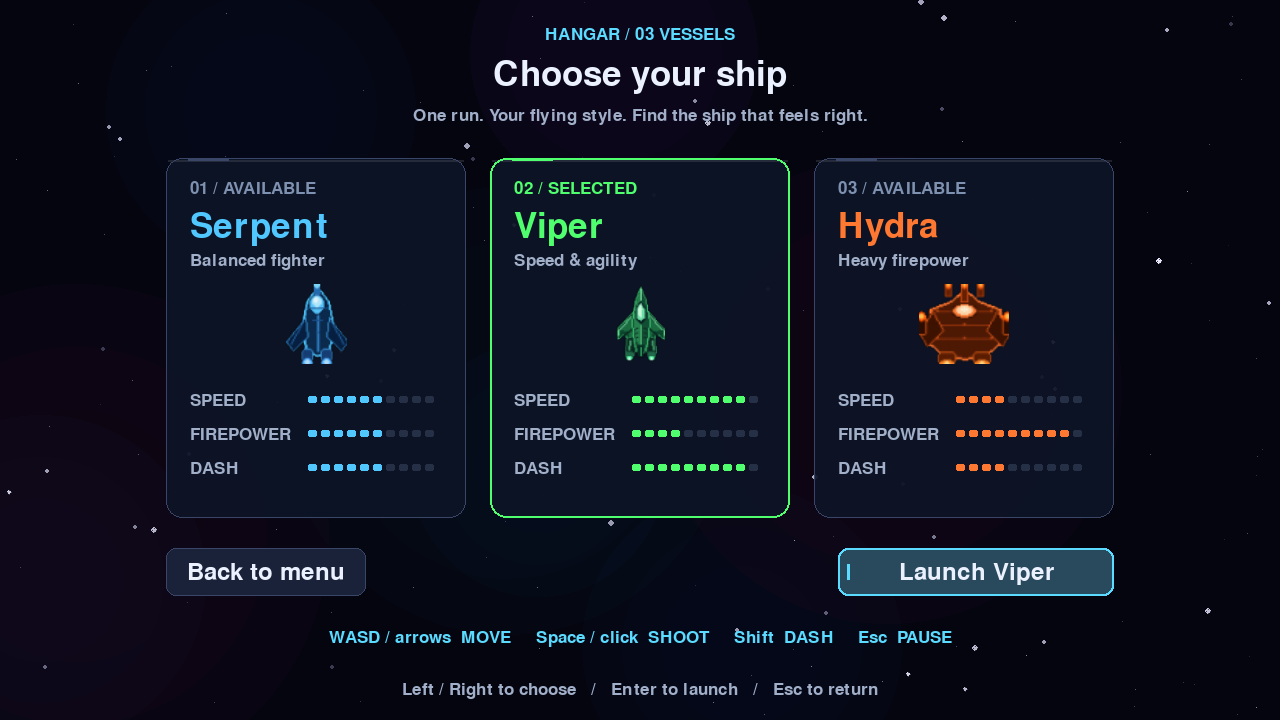
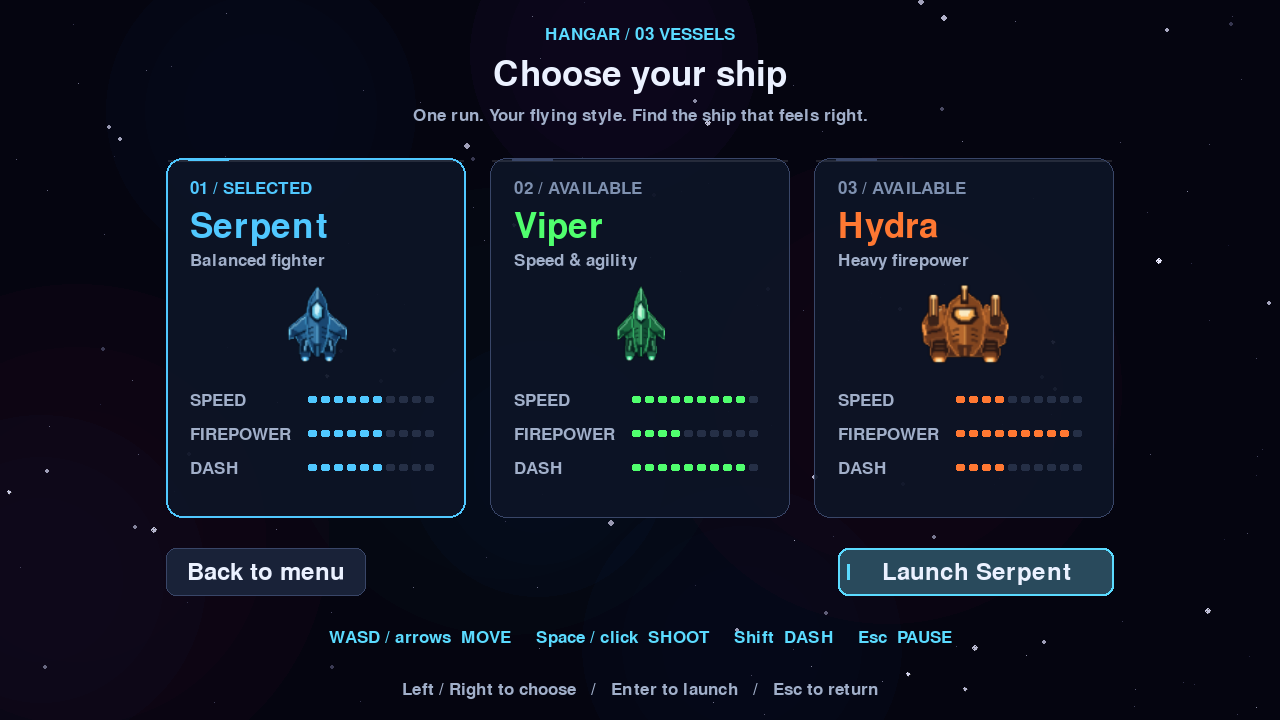
serpentis_1.8.1: refresh Serpent and Hydra and credit Curunir

diff --git a/ship_sprites.py b/ship_sprites.py
@@ -1,8 +1,8 @@
 """Procedural ship sprite builder — high-detail versions.
 
-  serpent — balanced fighter    (blue,  symmetric, twin engines, central cannon)
+  serpent — balanced fighter    (cobalt interceptor, swept wings, twin engines)
   viper   — speed & agility     (emerald interceptor, swept wings, twin thrusters)
-  hydra   — heavy firepower     (orange, wide armoured hull, triple cannon array)
+  hydra   — heavy firepower     (amber gunship, layered armour, weapon pods)
 
 All sprites face UP (nose at top).
 """
@@ -13,66 +13,60 @@ import pygame
 # Serpent — balanced blue fighter  (52×68)
 # ---------------------------------------------------------------------------
 def _build_serpent() -> pygame.Surface:
+    # Original canvas and gameplay footprint; only the drawn hull changes.
     W, H = 52, 68
     surf = pygame.Surface((W, H), pygame.SRCALPHA)
     cx = W // 2
+    edge, light, seam = (76, 173, 227), (168, 232, 255), (10, 31, 54)
 
-    # ── Main fuselage ────────────────────────────────────────────────
-    body = [
-        (cx,      2),           # nose tip
-        (cx + 9,  14),
-        (cx + 13, 34),
-        (cx + 10, 54),
-        (cx,      60),
-        (cx - 10, 54),
-        (cx - 13, 34),
-        (cx - 9,  14),
-    ]
-    pygame.draw.polygon(surf, (14, 45, 80), body)
-    pygame.draw.polygon(surf, (80, 200, 255), body, 2)
-
-    # Fuselage centre ridge
-    pygame.draw.line(surf, (50, 130, 200), (cx, 4), (cx, 56), 2)
-
-    # ── Swept wings ───────────────────────────────────────────────────
+    # Broad swept wings and pale leading edges define the balanced fighter.
     for sign in (-1, 1):
-        wing = [
-            (cx + sign * 10, 28),
-            (cx + sign * 26, 48),
-            (cx + sign * 20, 56),
-            (cx + sign * 8,  44),
-        ]
-        pygame.draw.polygon(surf, (10, 35, 68), wing)
-        pygame.draw.polygon(surf, (60, 160, 230), wing, 1)
-        # Wing trailing edge detail
-        pygame.draw.line(surf, (40, 110, 180),
-                         (cx + sign * 12, 32), (cx + sign * 22, 50), 1)
+        def point(x, y):
+            return cx + sign * x, y
 
-    # ── Cockpit ───────────────────────────────────────────────────────
-    pygame.draw.ellipse(surf, (0, 25, 60),      (cx - 7, 8,  14, 18))
-    pygame.draw.ellipse(surf, (90, 200, 255),   (cx - 6, 9,  12, 16))
-    pygame.draw.ellipse(surf, (180, 235, 255),  (cx - 4, 10,  8, 10))
-    # Cockpit highlight
-    pygame.draw.ellipse(surf, (230, 248, 255),  (cx - 3, 11,  4,  5))
+        wing = [point(7, 22), point(24, 36), point(24, 46),
+                point(18, 44), point(12, 56), point(6, 48)]
+        pygame.draw.polygon(surf, (24, 61, 100), wing)
+        pygame.draw.polygon(surf, edge, wing, 1)
+        pygame.draw.polygon(surf, (43, 104, 151),
+                            [point(8, 25), point(21, 37), point(15, 40), point(9, 47)])
+        pygame.draw.line(surf, light, point(9, 26), point(22, 37), 1)
+        pygame.draw.line(surf, seam, point(10, 38), point(19, 43), 2)
+        pygame.draw.line(surf, (120, 219, 255), point(24, 38), point(24, 42), 2)
 
-    # ── Nose cannon ───────────────────────────────────────────────────
-    pygame.draw.rect(surf, (40, 110, 180), (cx - 3, 0, 6, 10), border_radius=2)
-    pygame.draw.circle(surf, (130, 220, 255), (cx, 1), 3)
+        # Armoured engine shoulders flank the narrow tail.
+        pod = [point(7, 43), point(14, 46), point(15, 57),
+               point(12, 63), point(7, 63), point(5, 55)]
+        pygame.draw.polygon(surf, seam, pod)
+        pygame.draw.polygon(surf, (54, 113, 158), pod, 1)
+        pygame.draw.line(surf, (101, 172, 214), point(10, 47), point(11, 55), 2)
+        ex = cx + sign * 10
+        pygame.draw.rect(surf, (27, 68, 108), (ex - 4, 57, 8, 7), border_radius=2)
+        pygame.draw.rect(surf, (84, 195, 255), (ex - 3, 61, 6, 4), border_radius=2)
+        pygame.draw.rect(surf, (207, 246, 255), (ex - 1, 62, 2, 3))
 
-    # ── Armour plates on fuselage ─────────────────────────────────────
-    for py in (20, 30, 40):
-        pygame.draw.line(surf, (30, 85, 145),
-                         (cx - 9 + (py - 20) // 2, py),
-                         (cx + 9 - (py - 20) // 2, py), 1)
+    body = [(cx, 2), (cx + 7, 13), (cx + 10, 29), (cx + 8, 46),
+            (cx + 4, 57), (cx - 4, 57), (cx - 8, 46), (cx - 10, 29), (cx - 7, 13)]
+    pygame.draw.polygon(surf, (29, 74, 116), body)
+    pygame.draw.polygon(surf, edge, body, 1)
+    pygame.draw.polygon(surf, (58, 122, 168),
+                        [(cx, 5), (cx, 51), (cx - 5, 46), (cx - 7, 28), (cx - 4, 14)])
+    pygame.draw.line(surf, light, (cx, 4), (cx, 12), 1)
+    pygame.draw.line(surf, (113, 197, 238), (cx, 35), (cx, 51), 1)
 
-    # ── Twin engine nozzles ───────────────────────────────────────────
-    for ex in (cx - 8, cx + 8):
-        pygame.draw.rect(surf, (25, 65, 120), (ex - 5, 54, 10, 12), border_radius=3)
-        pygame.draw.rect(surf, (60, 150, 220), (ex - 5, 54, 10, 12), 1, border_radius=3)
-        # Engine glow ring
-        pygame.draw.ellipse(surf, (70, 170, 255), (ex - 5, 62, 10, 8))
-        pygame.draw.ellipse(surf, (180, 225, 255),(ex - 3, 63,  6, 5))
-
+    # A hexagonal canopy replaces the old flat glowing oval.
+    canopy = [(cx, 13), (cx + 6, 20), (cx + 5, 28),
+              (cx, 32), (cx - 5, 28), (cx - 6, 20)]
+    pygame.draw.polygon(surf, seam, canopy)
+    pygame.draw.polygon(surf, (94, 191, 227),
+                        [(cx, 15), (cx + 4, 20), (cx + 3, 27), (cx, 29), (cx - 3, 27), (cx - 4, 20)])
+    pygame.draw.polygon(surf, (207, 247, 255),
+                        [(cx, 16), (cx + 2, 20), (cx, 26), (cx - 2, 23), (cx - 2, 20)])
+    for sign in (-1, 1):
+        for y in (36, 40, 44):
+            pygame.draw.line(surf, seam, (cx + sign * 4, y), (cx + sign * 7, y + 1), 1)
+    pygame.draw.polygon(surf, (16, 44, 73), [(cx - 3, 50), (cx + 3, 50), (cx + 2, 60), (cx - 2, 60)])
+    pygame.draw.line(surf, edge, (cx, 52), (cx, 60), 1)
     return surf
 
 
@@ -150,71 +144,73 @@ def _build_hydra() -> pygame.Surface:
     W, H = 68, 60
     surf = pygame.Surface((W, H), pygame.SRCALPHA)
     cx = W // 2
+    edge, light, seam = (221, 128, 57), (255, 217, 151), (49, 28, 23)
 
-    # ── Wide armoured hull ────────────────────────────────────────────
-    hull = [
-        (cx,      3),           # nose
-        (cx + 10, 12),
-        (cx + 26, 18),
-        (cx + 28, 42),
-        (cx + 16, 52),
-        (cx,      55),
-        (cx - 16, 52),
-        (cx - 28, 42),
-        (cx - 26, 18),
-        (cx - 10, 12),
-    ]
-    pygame.draw.polygon(surf, (82, 28, 6), hull)
-    pygame.draw.polygon(surf, (255, 120, 50), hull, 2)
-
-    # Armour plating bands
-    for py, w in ((20, 40), (30, 46), (40, 40)):
-        pygame.draw.line(surf, (150, 55, 15),
-                         (cx - w // 2, py), (cx + w // 2, py), 1)
-        # Rivet dots
-        for rx in (-w // 2, 0, w // 2):
-            pygame.draw.circle(surf, (180, 70, 20), (cx + rx, py), 1)
-
-    # ── Short stubby wings with weapon pods ───────────────────────────
+    # A wide chassis connects two substantial weapon and engine outriggers.
+    chassis = [(cx - 14, 18), (cx + 14, 18), (cx + 30, 29),
+               (cx + 28, 44), (cx + 16, 53), (cx - 16, 53), (cx - 28, 44), (cx - 30, 29)]
+    pygame.draw.polygon(surf, (78, 44, 30), chassis)
+    pygame.draw.polygon(surf, (149, 86, 43), chassis, 1)
     for sign in (-1, 1):
-        wing = [
-            (cx + sign * 24, 20),
-            (cx + sign * 34, 36),
-            (cx + sign * 28, 46),
-            (cx + sign * 16, 34),
-        ]
-        pygame.draw.polygon(surf, (65, 20, 4), wing)
-        pygame.draw.polygon(surf, (215, 88, 28), wing, 1)
-        # Wing cannon pod
-        pod_x = cx + sign * 32
-        pod_y = 30
-        pygame.draw.rect(surf, (48, 14, 3),
-                         (pod_x - 4, pod_y - 6, 8, 14), border_radius=2)
-        pygame.draw.rect(surf, (200, 80, 20),
-                         (pod_x - 4, pod_y - 6, 8, 14), 1, border_radius=2)
-        pygame.draw.circle(surf, (255, 85, 5), (pod_x, pod_y - 6), 4)
-        pygame.draw.circle(surf, (255, 195, 80),(pod_x, pod_y - 6), 2)
+        def point(x, y):
+            return cx + sign * x, y
 
-    # ── Wide cockpit (battle visor) ───────────────────────────────────
-    pygame.draw.ellipse(surf, (55, 16, 3),      (cx - 10, 14, 20, 12))
-    pygame.draw.ellipse(surf, (255, 125, 55),   (cx - 9,  15, 18, 10))
-    pygame.draw.ellipse(surf, (255, 215, 170),  (cx - 6,  16, 12,  7))
-    pygame.draw.ellipse(surf, (255, 240, 210),  (cx - 3,  17,  6,  4))
+        shoulder = [point(15, 15), point(25, 17), point(32, 29),
+                    point(30, 43), point(22, 48), point(13, 39)]
+        pygame.draw.polygon(surf, (113, 61, 32), shoulder)
+        pygame.draw.polygon(surf, edge, shoulder, 1)
+        pygame.draw.polygon(surf, (170, 96, 43),
+                            [point(17, 18), point(23, 20), point(29, 29), point(20, 32), point(15, 27)])
+        pygame.draw.line(surf, light, point(18, 18), point(25, 22), 1)
+        pygame.draw.line(surf, seam, point(18, 33), point(28, 35), 2)
+        pygame.draw.line(surf, (255, 161, 80), point(31, 30), point(30, 37), 2)
 
-    # ── Triple cannon array ───────────────────────────────────────────
-    for bx, blen in ((cx, 14), (cx - 12, 10), (cx + 12, 10)):
-        pygame.draw.rect(surf, (105, 35, 5), (bx - 3, 0, 6, blen), border_radius=1)
-        pygame.draw.rect(surf, (200, 75, 20), (bx - 3, 0, 6, blen), 1, border_radius=1)
-        pygame.draw.circle(surf, (255, 95, 15), (bx, 1), 3)
-        pygame.draw.circle(surf, (255, 195, 80),(bx, 1), 1)
+        # Forward-facing gun pods reinforce Hydra's heavy-firepower identity.
+        gx = cx + sign * 23
+        pygame.draw.rect(surf, seam, (gx - 4, 8, 8, 22), border_radius=2)
+        pygame.draw.rect(surf, (187, 110, 55), (gx - 3, 9, 6, 19), 1, border_radius=1)
+        pygame.draw.rect(surf, (239, 174, 96), (gx - 1, 8, 2, 15))
+        pygame.draw.rect(surf, (255, 224, 165), (gx - 2, 8, 4, 3))
+        pygame.draw.rect(surf, (63, 38, 28), (gx - 4, 24, 8, 7), border_radius=2)
 
-    # ── Twin wide engine nozzles ──────────────────────────────────────
-    for ex in (cx - 13, cx + 13):
-        pygame.draw.rect(surf, (95, 32, 5), (ex - 7, 50, 14, 10), border_radius=3)
-        pygame.draw.rect(surf, (210, 90, 25),(ex - 7, 50, 14, 10), 1, border_radius=3)
-        pygame.draw.ellipse(surf, (255, 135, 40),  (ex - 6, 56, 12,  7))
-        pygame.draw.ellipse(surf, (255, 225, 140), (ex - 3, 57,  6,  5))
+        # The broad exhausts are recessed into separate armoured engine pods.
+        ex = cx + sign * 19
+        pod = [point(14, 39), point(25, 41), point(26, 51),
+               point(23, 57), point(15, 57), point(12, 49)]
+        pygame.draw.polygon(surf, seam, pod)
+        pygame.draw.polygon(surf, (157, 91, 47), pod, 1)
+        for y in (44, 47):
+            pygame.draw.line(surf, (108, 66, 39), (ex - 3, y), (ex + 3, y), 1)
+        pygame.draw.rect(surf, (123, 66, 34), (ex - 5, 50, 10, 7), border_radius=2)
+        pygame.draw.rect(surf, (255, 155, 66), (ex - 4, 54, 8, 4), border_radius=2)
+        pygame.draw.rect(surf, (255, 235, 181), (ex - 2, 55, 4, 3))
 
+    # Raised central citadel, layered rather than the old round outline.
+    hull = [(cx, 5), (cx + 11, 13), (cx + 15, 28), (cx + 12, 44),
+            (cx + 6, 52), (cx - 6, 52), (cx - 12, 44), (cx - 15, 28), (cx - 11, 13)]
+    pygame.draw.polygon(surf, (132, 72, 34), hull)
+    pygame.draw.polygon(surf, edge, hull, 1)
+    pygame.draw.polygon(surf, (185, 108, 49),
+                        [(cx, 7), (cx, 45), (cx - 8, 40), (cx - 12, 28), (cx - 8, 15)])
+    pygame.draw.line(surf, light, (cx, 7), (cx, 13), 1)
+    pygame.draw.line(surf, (230, 153, 78), (cx, 31), (cx, 45), 1)
+
+    # Wide angular battle visor, set behind the centre cannon.
+    visor = [(cx - 8, 17), (cx + 8, 17), (cx + 10, 24),
+             (cx + 5, 29), (cx - 5, 29), (cx - 10, 24)]
+    pygame.draw.polygon(surf, seam, visor)
+    pygame.draw.polygon(surf, (255, 183, 91),
+                        [(cx - 6, 19), (cx + 6, 19), (cx + 7, 23), (cx + 3, 26), (cx - 3, 26), (cx - 7, 23)])
+    pygame.draw.polygon(surf, (255, 240, 199),
+                        [(cx - 4, 19), (cx + 4, 19), (cx + 2, 23), (cx - 3, 23)])
+    pygame.draw.rect(surf, seam, (cx - 3, 1, 6, 14), border_radius=1)
+    pygame.draw.rect(surf, (242, 171, 91), (cx - 1, 2, 2, 10))
+    pygame.draw.rect(surf, light, (cx - 2, 1, 4, 3))
+    for sign in (-1, 1):
+        for y in (33, 37, 41):
+            pygame.draw.line(surf, seam, (cx + sign * 5, y), (cx + sign * 9, y + 1), 1)
+    pygame.draw.polygon(surf, (81, 45, 29), [(cx - 5, 45), (cx + 5, 45), (cx + 3, 53), (cx - 3, 53)])
+    pygame.draw.line(surf, edge, (cx, 47), (cx, 52), 1)
     return surf
 
 

diff --git a/game.py b/game.py
@@ -4,7 +4,7 @@ import config
 import random
 import math
 from enum import Enum
-from app_info import APP_NAME, APP_VERSION, APP_TAGLINE
+from app_info import APP_NAME, APP_VERSION, APP_TAGLINE, DEVELOPER_NAME
 from fighter import Fighter
 from alien import Alien, ArmoredAlien, ZigzagAlien, ShooterAlien
 from alien_bullet import AlienBullet
@@ -944,9 +944,10 @@ class Game:
             return
         ship  = self._selected_ship
         r, g, b = ship.color
-        # Follow Viper's paired nozzles instead of emitting from the centre keel.
-        nozzles = (-round(f.width * 10 / 46), round(f.width * 10 / 46)) if ship.id == 'viper' else (0,)
-        jitter = 1 if ship.id == 'viper' else 4
+        # Match the paired engine pods of each ship, in sprite-relative coordinates.
+        spread = round(f.width * {'serpent': 10 / 52, 'viper': 10 / 46, 'hydra': 19 / 68}[ship.id])
+        nozzles = (-spread, spread)
+        jitter = 1
         cy = f.rect.bottom - 4
         for offset in nozzles:
             for _ in range(2 if f.is_dashing else 1):
@@ -1206,6 +1207,6 @@ class Game:
 
         # Version tag
         ver = render_shadowed(self.small_font,
-                              f"{APP_NAME} v{APP_VERSION}   |   Developer: Yehor Petrenko",
+                              f"{APP_NAME} v{APP_VERSION}   |   Developer: {DEVELOPER_NAME}",
                               MUTED)
         cv.blit(ver, ver.get_rect(centerx=cx, bottom=_LOGICAL_H - 14))

diff --git a/app_info.py b/app_info.py
@@ -1,6 +1,7 @@
 """Shared application identity and release version."""
 
 APP_NAME = 'Serpentis'
-APP_VERSION = '1.8.0'
+APP_VERSION = '1.8.1'
 APP_TAGLINE = 'A Python space shooter'
+DEVELOPER_NAME = 'Curunir'
 RELEASE_TAG = f'{APP_NAME.lower()}_{APP_VERSION}'

diff --git a/RELEASE_NOTES.md b/RELEASE_NOTES.md
@@ -1,39 +1,23 @@
-# Serpentis 1.8.0
+# Serpentis 1.8.1
 
-A refreshed fleet, cohesive menus, automatic Mac display sizing, and more reliable gameplay.
+The fleet refresh is complete: Serpent and Hydra join the redesigned Viper with new detailed ship artwork.
 
-## New Viper design
+## Updated ship models
 
-- Redesigned the green Viper as an emerald interceptor with swept wings, a brighter canopy, layered armour, and twin engine nozzles.
-- Added matching paired exhaust trails in flight and updated the hangar and fleet previews.
-- Kept Viper's speed, weapons, dash timing, and collision dimensions unchanged.
+- **Serpent:** a faceted cobalt hull, broader swept wings, an angular cyan canopy, layered armour and twin engine pods.
+- **Hydra:** a wide amber gunship with reinforced armour, forward weapon pods, a central cannon and recessed twin exhausts.
+- Matched the flight trails to the engine positions of all three ships.
+- Refreshed menu, hangar and gameplay screenshots.
 
-## Interface
+## Credits
 
-- Unified the main menu, hangar, settings, pause, and results with readable panels and shared button styles.
-- Added keyboard navigation, visible focus, an explicit launch button, and an in-game How to Play guide.
-- Improved text contrast and replaced unsupported symbols with reliable artwork.
-- Updated screenshots and controls documentation.
+- The launch screen now credits **Curunir** as the developer.
+- Centralized the displayed developer name alongside the application identity and version.
 
-## Display and macOS
-
-- Enabled Auto resolution by default on macOS, following the current monitor's desktop mode and system scaling.
-- Windowed Auto leaves room for system panels; fullscreen uses the monitor's desktop resolution.
-- Preserved game proportions on Mac, 4:3 and ultrawide displays, with matching mouse coordinates.
-- Fixed the native crash when opening Settings by removing unsafe temporary SDL window wrappers.
-
-## Gameplay fixes
-
-- Movement keys released while paused no longer leave the ship moving after resume.
-- Fatal collisions stop further damage and record one result per run.
-- Pickups survive wave transitions, including hearts dropped by bosses.
-- Shield rams correctly defeat bosses and award their rewards.
-- Dash cooldown and distance are consistent across frame rates; movement stays inside the screen.
+Ship speed, weapons, dash timing and collision dimensions are unchanged. Viper's 1.8.0 design is preserved, and existing scores and settings remain compatible.
 
 ## Downloads
 
 - **Windows:** `Serpentis-Windows.exe`
 - **macOS:** `Serpentis-macOS.zip` — extract and open `Serpentis.app`.
 - **Linux:** `Serpentis-Linux.tar.gz` — extract, then run `chmod +x Serpentis && ./Serpentis`.
-
-Existing Serpentis scores and preferences are preserved. Manual display resolution remains available in Settings.

diff --git a/README.md b/README.md
@@ -1,6 +1,6 @@
 # Serpentis
 
-**Current release:** [Serpentis 1.8.0](https://github.com/Curun1r/Serpentis/releases/tag/serpentis_1.8.0)
+**Current release:** [Serpentis 1.8.1](https://github.com/Curun1r/Serpentis/releases/tag/serpentis_1.8.1)
 
 A fast-paced 2-D space shooter built with Python and pygame.  
 Destroy waves of alien invaders, survive boss encounters, collect power-ups, and chase the high score.
@@ -71,7 +71,7 @@ Screenshots show the current source version; downloadable builds remain at the l
 - **4 alien types** — Normal, Armoured (multi-hit), Zigzag, and Shooter aliens that fire back
 - **Mini-boss encounters** — a fast raider appears every wave 3, 8, 13 …
 - **Full boss fights** — every 5th wave; three visual tiers (Phantom → Ravager → Leviathan) each with unique multi-phase attack patterns
-- **3 playable ships** — each with unique procedurally-drawn sprites, stats, and dash timing; Viper now features a faceted emerald hull, swept wings and twin engines
+- **3 playable ships** — each with unique procedurally-drawn sprites, stats, and dash timing; a cobalt Serpent interceptor, emerald Viper and armoured amber Hydra share a detailed fleet style with paired engine trails
 - **Dash mechanic** — short-range burst in any direction with a cooldown bar
 - **4 power-ups** — Triple Shot, Shield (absorbs one hit + sound), Slow Time, Heart (+1 life)
 - **Floating damage numbers** — real-time score and hit feedback above every enemy
